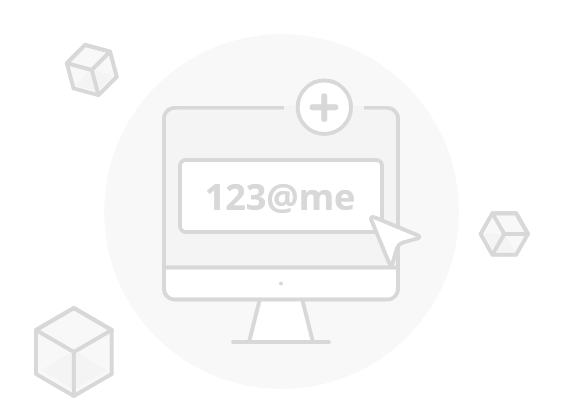
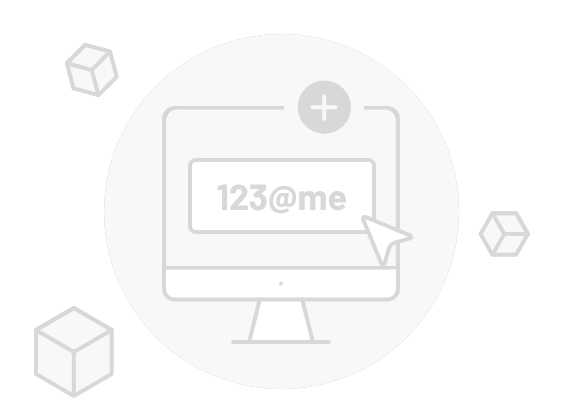
내용수정 - 색상 변경

Changed region(s): [[0.3014, 0.3714, 0.7535, 0.65], [0.5124, 0.1857, 0.633, 0.3405]]

diff --git a/apisj-core/src/main/java/org/apis/gui/controller/addressmasking/AddressMaskingController.java b/apisj-core/src/main/java/org/apis/gui/controller/addressmasking/AddressMaskingController.java
@@ -365,7 +365,7 @@ public class AddressMaskingController extends BaseViewController {
         }
 
         else if(id.equals("cardRegisterMask")){
-            StyleManager.backgroundColorStyle(cardRegisterMask, StyleManager.AColor.Cd8d8d8);
+            StyleManager.backgroundColorStyle(cardRegisterMask, StyleManager.AColor.Ce2e2e2);
             StyleManager.fontColorStyle(titleRegisterMask, StyleManager.AColor.C2b2b2b);
             StyleManager.fontColorStyle(subTitleRegisterMask, StyleManager.AColor.C2b2b2b);
             StyleManager.fontColorStyle(subTitleRegisterMask2, StyleManager.AColor.C999999);
@@ -376,7 +376,7 @@ public class AddressMaskingController extends BaseViewController {
             startAnimation(aniLine1);
 
         }else if(id.equals("cardHandOverMask")){
-            StyleManager.backgroundColorStyle(cardHandOverMask, StyleManager.AColor.Cd8d8d8);
+            StyleManager.backgroundColorStyle(cardHandOverMask, StyleManager.AColor.Ce2e2e2);
             StyleManager.fontColorStyle(titleHandOverMask, StyleManager.AColor.C2b2b2b);
             StyleManager.fontColorStyle(subTitleHandOverMask, StyleManager.AColor.C2b2b2b);
             StyleManager.fontColorStyle(subTitleHandOverMask2, StyleManager.AColor.C999999);
@@ -387,7 +387,7 @@ public class AddressMaskingController extends BaseViewController {
             startAnimation(aniLine2);
 
         }else if(id.equals("cardRegisterDomain")){
-            StyleManager.backgroundColorStyle(cardRegisterDomain, StyleManager.AColor.Cd8d8d8);
+            StyleManager.backgroundColorStyle(cardRegisterDomain, StyleManager.AColor.Ce2e2e2);
             StyleManager.fontColorStyle(titleRegisterDomain, StyleManager.AColor.C2b2b2b);
             StyleManager.fontColorStyle(subTitleRegisterDomain, StyleManager.AColor.C2b2b2b);
             StyleManager.fontColorStyle(subTitleRegisterDomain2, StyleManager.AColor.C999999);
@@ -412,30 +412,30 @@ public class AddressMaskingController extends BaseViewController {
 
         else if(id.equals("cardRegisterMask")){
             StyleManager.backgroundColorStyle(cardRegisterMask, StyleManager.AColor.Cffffff);
-            StyleManager.fontColorStyle(titleRegisterMask, StyleManager.AColor.Cd8d8d8);
-            StyleManager.fontColorStyle(subTitleRegisterMask, StyleManager.AColor.Cd8d8d8);
-            StyleManager.fontColorStyle(subTitleRegisterMask2, StyleManager.AColor.Cd8d8d8);
-            StyleManager.fontColorStyle(enterRegisterMask, StyleManager.AColor.Cd8d8d8);
+            StyleManager.fontColorStyle(titleRegisterMask, StyleManager.AColor.Cc1c1c1);
+            StyleManager.fontColorStyle(subTitleRegisterMask, StyleManager.AColor.Cc1c1c1);
+            StyleManager.fontColorStyle(subTitleRegisterMask2, StyleManager.AColor.Cc1c1c1);
+            StyleManager.fontColorStyle(enterRegisterMask, StyleManager.AColor.Cc1c1c1);
             imgRegisterMask.setImage(ImageManager.bgRegisterMask);
 
             aniLine1.setVisible(false);
 
         }else if(id.equals("cardHandOverMask")){
             StyleManager.backgroundColorStyle(cardHandOverMask, StyleManager.AColor.Cffffff);
-            StyleManager.fontColorStyle(titleHandOverMask, StyleManager.AColor.Cd8d8d8);
-            StyleManager.fontColorStyle(subTitleHandOverMask, StyleManager.AColor.Cd8d8d8);
-            StyleManager.fontColorStyle(subTitleHandOverMask2, StyleManager.AColor.Cd8d8d8);
-            StyleManager.fontColorStyle(enterHandOverMask, StyleManager.AColor.Cd8d8d8);
+            StyleManager.fontColorStyle(titleHandOverMask, StyleManager.AColor.Cc1c1c1);
+            StyleManager.fontColorStyle(subTitleHandOverMask, StyleManager.AColor.Cc1c1c1);
+            StyleManager.fontColorStyle(subTitleHandOverMask2, StyleManager.AColor.Cc1c1c1);
+            StyleManager.fontColorStyle(enterHandOverMask, StyleManager.AColor.Cc1c1c1);
             imgHandOverMask.setImage(ImageManager.bgHandOverMask);
 
             aniLine2.setVisible(false);
 
         }else if(id.equals("cardRegisterDomain")){
             StyleManager.backgroundColorStyle(cardRegisterDomain, StyleManager.AColor.Cffffff);
-            StyleManager.fontColorStyle(titleRegisterDomain, StyleManager.AColor.Cd8d8d8);
-            StyleManager.fontColorStyle(subTitleRegisterDomain, StyleManager.AColor.Cd8d8d8);
-            StyleManager.fontColorStyle(subTitleRegisterDomain2, StyleManager.AColor.Cd8d8d8);
-            StyleManager.fontColorStyle(enterRegisterDomain, StyleManager.AColor.Cd8d8d8);
+            StyleManager.fontColorStyle(titleRegisterDomain, StyleManager.AColor.Cc1c1c1);
+            StyleManager.fontColorStyle(subTitleRegisterDomain, StyleManager.AColor.Cc1c1c1);
+            StyleManager.fontColorStyle(subTitleRegisterDomain2, StyleManager.AColor.Cc1c1c1);
+            StyleManager.fontColorStyle(enterRegisterDomain, StyleManager.AColor.Cc1c1c1);
             imgRegisterDomain.setImage(ImageManager.bgRegisterDomain);
 
             aniLine3.setVisible(false);

diff --git a/apisj-core/src/main/java/org/apis/gui/controller/wallet/WalletController.java b/apisj-core/src/main/java/org/apis/gui/controller/wallet/WalletController.java
@@ -151,7 +151,7 @@ public class WalletController extends BaseViewController {
 
         StyleManager.fontStyle(searchApisAndTokens, StyleManager.Standard.SemiBold12);
         StyleManager.fontStyle(totalAssetLabel, StyleManager.Standard.SemiBold14);
-        StyleManager.fontStyle(myRewardsLabel, StyleManager.Standard.SemiBold12);
+        StyleManager.fontStyle(myRewardsLabel, StyleManager.Standard.Regular14);
 
         StyleManager.fontStyle(rewardEng1, StyleManager.Standard.Regular12);
         StyleManager.fontStyle(rewardEng2, StyleManager.Standard.SemiBold13);

diff --git a/apisj-core/src/main/java/org/apis/gui/manager/StyleManager.java b/apisj-core/src/main/java/org/apis/gui/manager/StyleManager.java
@@ -43,6 +43,7 @@ public class StyleManager {
         public static String C36b25b = "#36b25b";
         public static String Ce2e2e2 = "#e2e2e2";
         public static String Cefefef = "#efefef";
+        public static String Cc1c1c1 = "#c1c1c1";
 
     }
 
